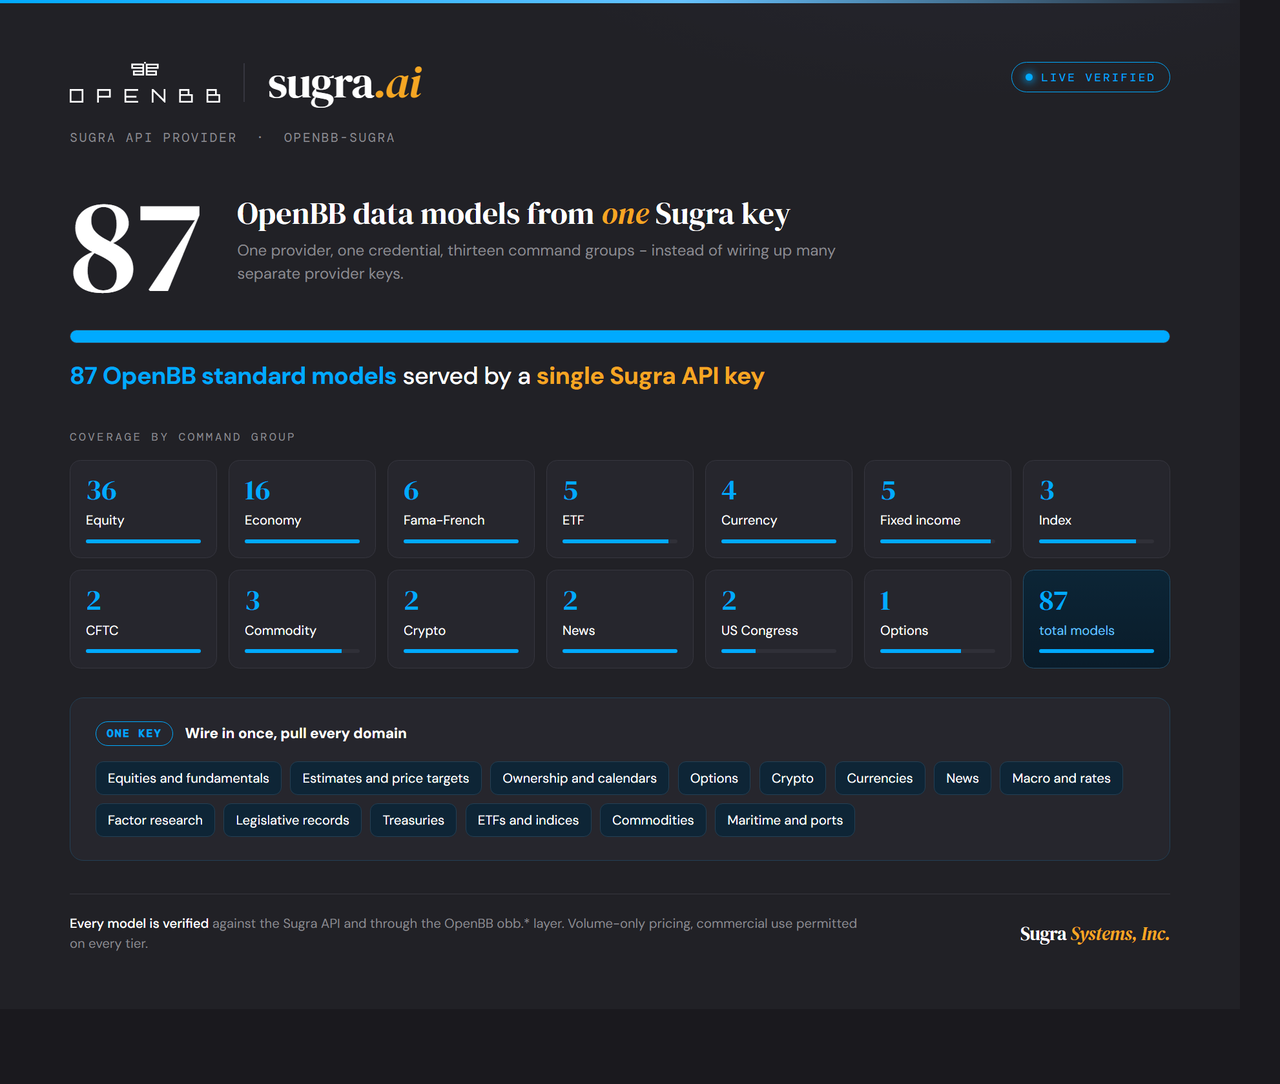
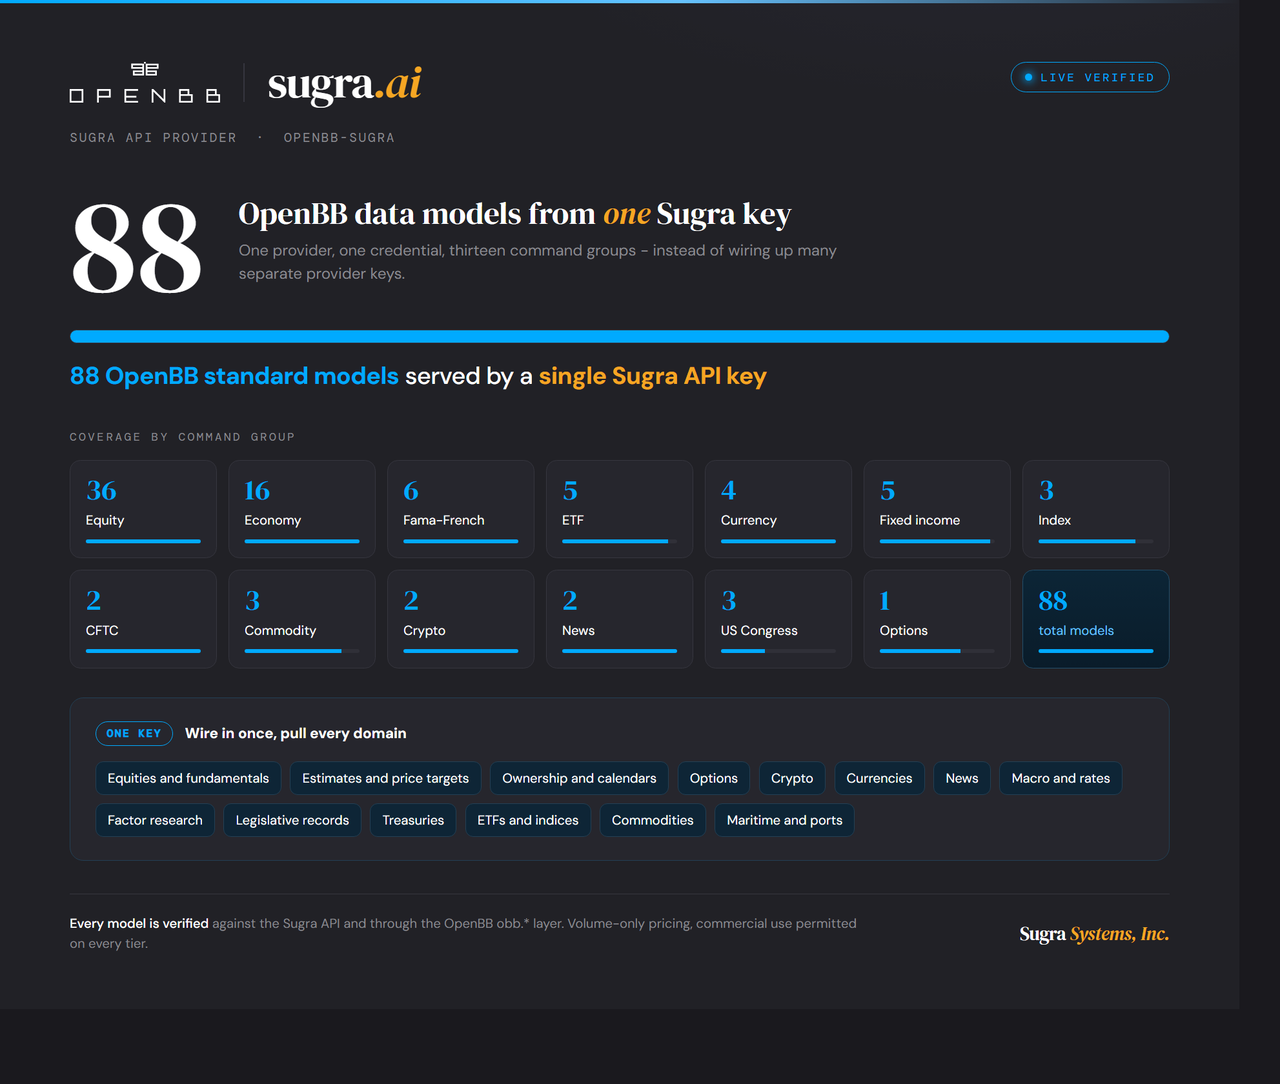
add CongressBillInfo fetcher (coverage 87 -> 88)
SugraCongressBillInfoFetcher maps the OpenBB standard CongressBillInfo
model (obb.uscongress.bill_info) to the Sugra bill endpoint. It makes one
Sugra call with ?expand=all (sub-resources spliced + paginated server-side
to the full arrays) in place of the standard provider's eight congress.gov
round-trips, then delegates to the canonical markdown builder - identical
output, built from complete (not first-page-of-20) sub-resource arrays.

bill_url accepts a bare 'congress/type/number', a leading-slashed ref, or
a full congress.gov URL. Adds 3 offline tests (ref parsing, unparseable
ref, markdown build) + the live PARAMS entry. Regenerated COVERAGE.md
(88 models, uscongress 3) and the README/banner assets.

diff --git a/assets/coverage.html b/assets/coverage.html
@@ -74,7 +74,7 @@
   </div>
 
   <div class="hero">
-    <div class="big">87</div>
+    <div class="big">88</div>
     <div class="cap">
       <div class="l1">OpenBB data models from <em>one</em> Sugra key</div>
       <div class="l2">One provider, one credential, thirteen command groups - instead of wiring up many separate provider keys.</div>
@@ -82,7 +82,7 @@
   </div>
 
   <div class="bar"></div>
-  <div class="barcap"><b>87 OpenBB standard models</b> served by a <span class="am">single Sugra API key</span></div>
+  <div class="barcap"><b>88 OpenBB standard models</b> served by a <span class="am">single Sugra API key</span></div>
 
   <div class="h2">Coverage by command group</div>
   <div class="grid">
@@ -97,9 +97,9 @@
     <div class="cell"><div class="n">3</div><div class="g">Commodity</div><div class="t"><i style="width:84%"></i></div></div>
     <div class="cell"><div class="n">2</div><div class="g">Crypto</div><div class="t"><i style="width:100%"></i></div></div>
     <div class="cell"><div class="n">2</div><div class="g">News</div><div class="t"><i style="width:100%"></i></div></div>
-    <div class="cell"><div class="n">2</div><div class="g">US Congress</div><div class="t"><i style="width:30%"></i></div></div>
+    <div class="cell"><div class="n">3</div><div class="g">US Congress</div><div class="t"><i style="width:38%"></i></div></div>
     <div class="cell"><div class="n">1</div><div class="g">Options</div><div class="t"><i style="width:70%"></i></div></div>
-    <div class="cell total"><div class="n">87</div><div class="g">total models</div><div class="t"><i style="width:100%"></i></div></div>
+    <div class="cell total"><div class="n">88</div><div class="g">total models</div><div class="t"><i style="width:100%"></i></div></div>
   </div>
 
   <div class="panel">

diff --git a/openbb_sugra/models/congress_bill_info.py b/openbb_sugra/models/congress_bill_info.py
@@ -1,0 +1,107 @@
+"""Sugra Congress Bill Info Model."""
+
+# pylint: disable=unused-argument
+
+from typing import Any
+
+from openbb_congress_gov.models.bill_info import (
+    CongressBillInfoData,
+    CongressBillInfoQueryParams,
+)
+from openbb_core.provider.abstract.fetcher import Fetcher
+
+
+def _parse_bill_ref(bill_url: str) -> tuple[int, str, str]:
+    """Resolve the standard model's ``bill_url`` to (congress, bill_type, number).
+
+    Accepts a bare ``congress/type/number`` (e.g. ``119/hr/1``, optionally
+    leading-slashed) or a full congress.gov URL (e.g.
+    ``https://api.congress.gov/v3/bill/119/s/1947?format=json``).
+    """
+    # pylint: disable=import-outside-toplevel
+    from openbb_core.app.model.abstract.error import OpenBBError
+
+    ref = (bill_url or "").strip()
+    if ref.lower().startswith("http"):
+        from urllib.parse import urlparse
+
+        parts = [p for p in urlparse(ref).path.split("/") if p]
+        seg = parts[parts.index("bill") + 1:][:3] if "bill" in parts else parts[-3:]
+    else:
+        seg = [p for p in ref.strip("/").split("/") if p]
+    if len(seg) < 3:
+        raise OpenBBError(
+            f"Could not parse a bill reference from '{bill_url}'. Expected "
+            "'congress/type/number' (e.g. '119/hr/1') or a full bill URL."
+        )
+    congress, bill_type, number = seg[0], seg[1], seg[2]
+    try:
+        return int(congress), bill_type.lower(), str(number)
+    except (TypeError, ValueError) as exc:
+        raise OpenBBError(
+            f"Invalid congress number in bill reference '{bill_url}'."
+        ) from exc
+
+
+class SugraCongressBillInfoFetcher(
+    Fetcher[CongressBillInfoQueryParams, CongressBillInfoData]
+):
+    """Full metadata and summary for a single U.S. Congressional bill via the Sugra API.
+
+    The Sugra bill endpoint inlines all seven sub-resources server-side
+    (``?expand=all``, paginated to the full arrays), so this fetcher makes ONE
+    Sugra call in place of the standard provider's eight congress.gov round-trips,
+    then reuses the canonical markdown builder verbatim - the output is identical
+    to the standard provider's, but built from the complete (not first-page) arrays.
+    """
+
+    @staticmethod
+    def transform_query(params: dict[str, Any]) -> CongressBillInfoQueryParams:
+        """Transform the query parameters."""
+        return CongressBillInfoQueryParams(**params)
+
+    @staticmethod
+    async def aextract_data(
+        query: CongressBillInfoQueryParams,
+        credentials: dict[str, str] | None,
+        **kwargs: Any,
+    ) -> dict:
+        """Return the fully-expanded bill record from the Sugra API."""
+        # pylint: disable=import-outside-toplevel
+        from openbb_core.provider.utils.errors import EmptyDataError
+
+        from openbb_sugra.utils.helpers import envelope_data, get_api_key, sugra_get
+
+        api_key = get_api_key(credentials)
+        congress, bill_type, number = _parse_bill_ref(query.bill_url)
+        response = await sugra_get(
+            f"/api/v1/congress/bills/{congress}/{bill_type}/{number}",
+            api_key,
+            {"expand": "all"},
+        )
+        bill = envelope_data(response)
+        if not isinstance(bill, dict) or not bill:
+            raise EmptyDataError(
+                f"No bill found for {congress}/{bill_type}/{number}."
+            )
+        return bill
+
+    @staticmethod
+    def transform_data(
+        query: CongressBillInfoQueryParams,
+        data: dict,
+        **kwargs: Any,
+    ) -> CongressBillInfoData:
+        """Build the markdown record via the canonical congress.gov transform.
+
+        Sugra serves the same congress.gov bill shape with the sub-resources
+        already spliced in (the standard provider splices them client-side), so
+        the canonical transform yields an identical CongressBillInfoData.
+        """
+        # pylint: disable=import-outside-toplevel
+        from openbb_congress_gov.models.bill_info import CongressBillInfoFetcher
+        from openbb_core.provider.utils.errors import EmptyDataError
+
+        if not data:
+            raise EmptyDataError("No bill information returned.")
+        return CongressBillInfoFetcher.transform_data(query, data, **kwargs)

diff --git a/tests/test_sugra_fetchers.py b/tests/test_sugra_fetchers.py
@@ -36,6 +36,7 @@ PARAMS: dict[str, dict] = {
     "CompanyFilings": {"symbol": "AAPL"},
     "CompanyNews": {"symbol": "AAPL"},
     "CongressAmendments": {"congress": 119, "limit": 5},
+    "CongressBillInfo": {"bill_url": "119/hr/1"},
     "CongressBills": {"congress": 119, "limit": 5},
     "ConsumerPriceIndex": {},
     "CryptoHistorical": {"symbol": "BITCOIN"},
@@ -192,6 +193,51 @@ def test_congress_amendment_type_filter_drops_other_types():
     ]
     rows = SugraCongressAmendmentsFetcher.transform_data(query, data)
     assert {r.amendment_type for r in rows} == {"SAMDT"}
+
+
+def test_congress_bill_info_parses_bill_ref_forms():
+    """bill_url accepts a bare ref, a leading-slashed ref, and a full URL."""
+    from openbb_sugra.models.congress_bill_info import _parse_bill_ref
+
+    assert _parse_bill_ref("119/hr/1") == (119, "hr", "1")
+    assert _parse_bill_ref("/119/s/1") == (119, "s", "1")
+    assert _parse_bill_ref("118/HR/3684") == (118, "hr", "3684")
+    assert _parse_bill_ref(
+        "https://api.congress.gov/v3/bill/119/s/1947?format=json"
+    ) == (119, "s", "1947")
+
+
+def test_congress_bill_info_rejects_unparseable_ref():
+    """A ref without congress/type/number raises rather than guessing."""
+    from openbb_core.app.model.abstract.error import OpenBBError
+
+    from openbb_sugra.models.congress_bill_info import _parse_bill_ref
+
+    with pytest.raises(OpenBBError):
+        _parse_bill_ref("not-a-bill")
+
+
+def test_congress_bill_info_transform_builds_markdown():
+    """A spliced bill (sub-resources already inlined) renders the canonical markdown."""
+    from openbb_sugra.models.congress_bill_info import SugraCongressBillInfoFetcher
+
+    query = SugraCongressBillInfoFetcher.transform_query({"bill_url": "119/hr/1"})
+    bill = {
+        "congress": 119, "number": "1", "type": "HR", "title": "Test Act",
+        "originChamber": "House", "introducedDate": "2025-01-03",
+        "updateDate": "2025-02-01",
+        "latestAction": {"actionDate": "2025-02-01", "text": "Referred"},
+        "sponsors": [{"fullName": "Rep. Example"}],
+        "actions": [{"actionDate": "2025-01-03", "text": "Introduced", "type": "IntroReferral"}],
+        "subjects": [{"name": "Health"}],
+        "relatedBills": [{"congress": 119, "type": "S", "number": 9, "title": "Companion"}],
+    }
+    out = SugraCongressBillInfoFetcher.transform_data(query, bill)
+    assert out.markdown_content.startswith("## Test Act")
+    assert "### Actions" in out.markdown_content
+    assert "### Subjects" in out.markdown_content
+    assert "### Related Bills" in out.markdown_content
+    assert out.raw_data["title"] == "Test Act"
 
 
 def test_congress_rejects_offset_and_unbounded_limit():

diff --git a/openbb_sugra/__init__.py b/openbb_sugra/__init__.py
@@ -25,6 +25,7 @@ from openbb_sugra.models.commodity_spot_prices import SugraCommoditySpotPricesFe
 from openbb_sugra.models.company_filings import SugraCompanyFilingsFetcher
 from openbb_sugra.models.company_news import SugraCompanyNewsFetcher
 from openbb_sugra.models.congress_amendments import SugraCongressAmendmentsFetcher
+from openbb_sugra.models.congress_bill_info import SugraCongressBillInfoFetcher
 from openbb_sugra.models.congress_bills import SugraCongressBillsFetcher
 from openbb_sugra.models.consumer_price_index import SugraConsumerPriceIndexFetcher
 from openbb_sugra.models.cot import SugraCOTFetcher
@@ -156,6 +157,7 @@ sugra_provider = Provider(
         "CompanyFilings": SugraCompanyFilingsFetcher,
         "CompanyNews": SugraCompanyNewsFetcher,
         "CongressAmendments": SugraCongressAmendmentsFetcher,
+        "CongressBillInfo": SugraCongressBillInfoFetcher,
         "CongressBills": SugraCongressBillsFetcher,
         "ConsumerPriceIndex": SugraConsumerPriceIndexFetcher,
         "CryptoHistorical": SugraCryptoHistoricalFetcher,

diff --git a/README.md b/README.md
@@ -1,6 +1,6 @@
 <div align="center">
 
-<img src="https://raw.githubusercontent.com/Sugra-Systems/openbb-sugra/main/assets/coverage.png" alt="Sugra for OpenBB - 87 OpenBB data models from one Sugra key" width="960">
+<img src="https://raw.githubusercontent.com/Sugra-Systems/openbb-sugra/main/assets/coverage.png" alt="Sugra for OpenBB - 88 OpenBB data models from one Sugra key" width="960">
 
 # openbb-sugra
 
@@ -11,13 +11,13 @@
 [![License](https://img.shields.io/badge/license-AGPL--3.0-00AAFF)](LICENSE)
 [![OpenBB](https://img.shields.io/badge/OpenBB-provider-00AAFF)](https://docs.openbb.co/)
 
-One Sugra API key. 87 OpenBB data models. One provider.
+One Sugra API key. 88 OpenBB data models. One provider.
 
 </div>
 
 ---
 
-**One Sugra API key. 87 OpenBB data models. One provider.**
+**One Sugra API key. 88 OpenBB data models. One provider.**
 
 Wire in one credential and pull equities and fundamentals, estimates, ownership, calendars, options, crypto, currencies, news, macro and rates, treasuries, ETFs and indices, commodities, and maritime data - the breadth that otherwise needs many separate provider keys. Every model is live-verified against the Sugra API and through the OpenBB `obb.*` layer.
 
@@ -57,7 +57,7 @@ obb.crypto.price.historical("BITCOIN", provider="sugra")
 
 ## 4. Coverage
 
-A single Sugra key fulfils 87 OpenBB standard data models across thirteen command groups - equity, economy, Fama-French, ETF, currency, fixed income, index, CFTC, commodity, crypto, news, US Congress, and derivatives. The full matrix is generated from the shipped fetchers - see [`COVERAGE.md`](https://github.com/Sugra-Systems/openbb-sugra/blob/main/COVERAGE.md).
+A single Sugra key fulfils 88 OpenBB standard data models across thirteen command groups - equity, economy, Fama-French, ETF, currency, fixed income, index, CFTC, commodity, crypto, news, US Congress, and derivatives. The full matrix is generated from the shipped fetchers - see [`COVERAGE.md`](https://github.com/Sugra-Systems/openbb-sugra/blob/main/COVERAGE.md).
 
 ## 5. License
 

diff --git a/COVERAGE.md b/COVERAGE.md
@@ -1,6 +1,6 @@
 # openbb-sugra coverage
 
-One Sugra API key fulfils 87 OpenBB standard data models across 13 command groups. Install one provider, set one credential, and pull all of the below - instead of wiring many separate provider keys.
+One Sugra API key fulfils 88 OpenBB standard data models across 13 command groups. Install one provider, set one credential, and pull all of the below - instead of wiring many separate provider keys.
 
 | OpenBB command group | What it covers | Models |
 |---|---|---|
@@ -15,7 +15,7 @@ One Sugra API key fulfils 87 OpenBB standard data models across 13 command group
 | commodity (3) | Commodities and energy | obb.commodity.petroleum_status_report, obb.commodity.price.spot, obb.commodity.short_term_energy_outlook |
 | crypto (2) | Crypto | obb.crypto.price.historical, obb.crypto.search |
 | news (2) | News | obb.news.company, obb.news.world |
-| uscongress (2) | US Congress bills and amendments | obb.uscongress.amendments, obb.uscongress.bills |
+| uscongress (3) | US Congress bills and amendments | obb.uscongress.amendments, obb.uscongress.bill_info, obb.uscongress.bills |
 | derivatives (1) | Options | obb.derivatives.options.chains |
 
 Every model above is live-verified against the Sugra API and through the OpenBB obb.* layer. OpenBB models that Sugra does not yet cover are tracked separately and added as the underlying data lands.
